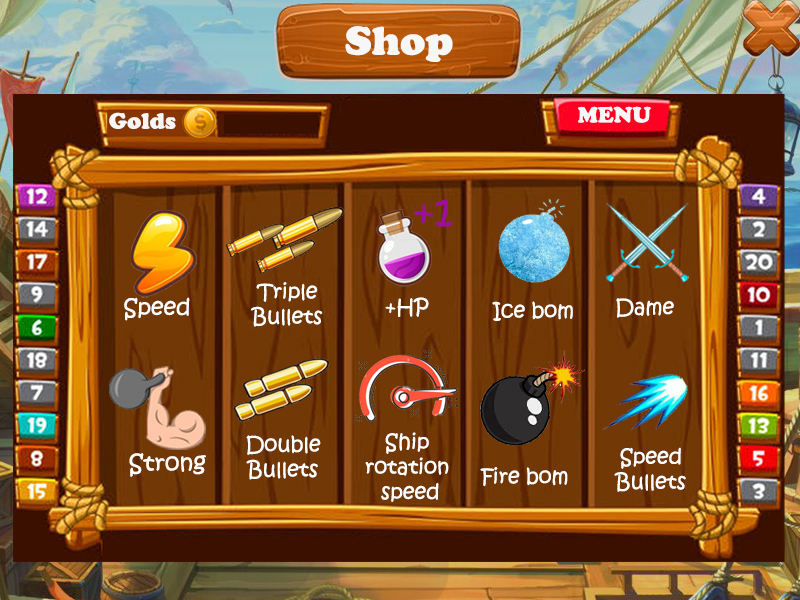
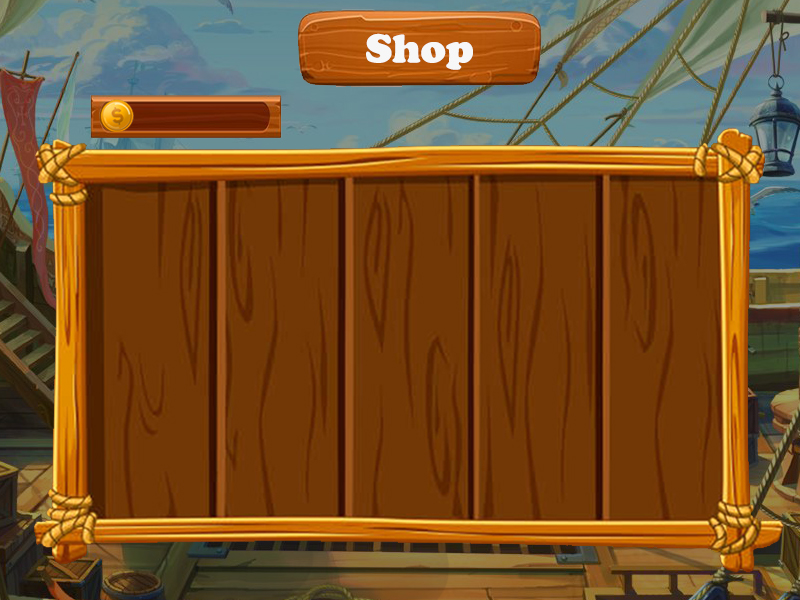
update background image

diff --git a/public/src/scenes/shopScene.js b/public/src/scenes/shopScene.js
@@ -8,6 +8,7 @@ class shopScene extends Phaser.Scene {
 
     preload() {
         this.load.image("background", "assets/shop/shop_background.jpg");
+        this.load.image("closeIcon", "assets/shop/closeIcon.png");
         this.load.image("speedImg", "assets/shop/speed.png");
         this.load.image("tripleBullets", "assets/shop/tripleBullets.png");
         this.load.image("hp", "assets/shop/hp.png");
@@ -19,9 +20,12 @@ class shopScene extends Phaser.Scene {
         this.load.image("fireBom", "assets/shop/fireBom.png");
         this.load.image("speedBullet", "assets/shop/speedBullet.png");
     }
+
     create() {
         //background
         this.background = this.add.image(400, 300, "background").setScale(1);
+        //close icon
+        this.closeIcon = this.add.image(765, 32, "closeIcon");
         //item skill's image
         this.speedImg = "speedImg";
         this.tripleBullets = "tripleBullets";
@@ -35,11 +39,11 @@ class shopScene extends Phaser.Scene {
         this.speedBullet = "speedBullet";
         //golds
         this.numberOfGolds = 2000;
-        this.textOfGolds = this.add.text(229, 112, this.numberOfGolds, { fontSize: 25, color: '#fff' });
+        this.textOfGolds = this.add.text(150, 103, this.numberOfGolds, { fontSize: 30, color: '#fff' });
         //number of item at begin
         this.speedNum = 0;
         this.tripleBulletsNum = 0;
-        this.hpNum = 2;
+        this.hpNum = 0;
         this.iceBomNum = 0;
         this.dameNum = 0;
         this.strongNum = 0;
@@ -62,12 +66,12 @@ class shopScene extends Phaser.Scene {
         this.chooseItem(this.fireBom, this.fireBomNum, 470, 350, 586, 501);
         this.chooseItem(this.speedBullet, this.speedBulletNum, 601, 360, 696, 496);
     }
-
+    
     update() {
-
+        
 
     }
-
+    
     chooseItem(item, itemNum, X_min, Y_min, X_max, Y_max) {
         this.background.on("pointerdown", () => {
             this.po_x = this.game.input.mousePointer.x;
@@ -77,18 +81,18 @@ class shopScene extends Phaser.Scene {
                 this.po_y >= Y_min &&
                 this.po_y <= Y_max
             ) {
-                this.animationAddItem(itemNum);
+                this.animationAddItem(item);
                 this.updateGolds();
-                this.updateNumberOfItem(itemNum, '#ffde00')
+                this.updateNumberOfItem(itemNum)
             }
         })
     }
 
-    animationAddItem(item, color) {
+    animationAddItem(item) {
         var randX = Phaser.Math.Between(200, 600);
         var randY = Phaser.Math.Between(200, 400);
-        // var pointsAdded = this.add.image(randX, randY, item);
-        var pointsAdded = this.add.text(randX, randY, '+' + item, { font: '30px ', fill: color, stroke: '#fff', strokeThickness: 10 });
+        var pointsAdded = this.add.image(randX, randY, item);
+        // var pointsAdded = this.add.text(randX, randY, '+' + item, { font: '30px ', fill: color, stroke: '#fff', strokeThickness: 10 });
         pointsAdded.setOrigin(0.3, 0.3);
         this.tweens.add({ targets: pointsAdded, alpha: 0, y: randY - 50, duration: 1000, ease: 'Linear' });
     }
@@ -96,11 +100,11 @@ class shopScene extends Phaser.Scene {
     updateGolds() {
         this.numberOfGolds -= 10;
         this.textOfGolds.setText(this.numberOfGolds);
-        console.log(this.speedBulletNum);
     }
-
+    
     updateNumberOfItem(item) {
         item += 1;
+        console.log(item);
     }
 
 }
